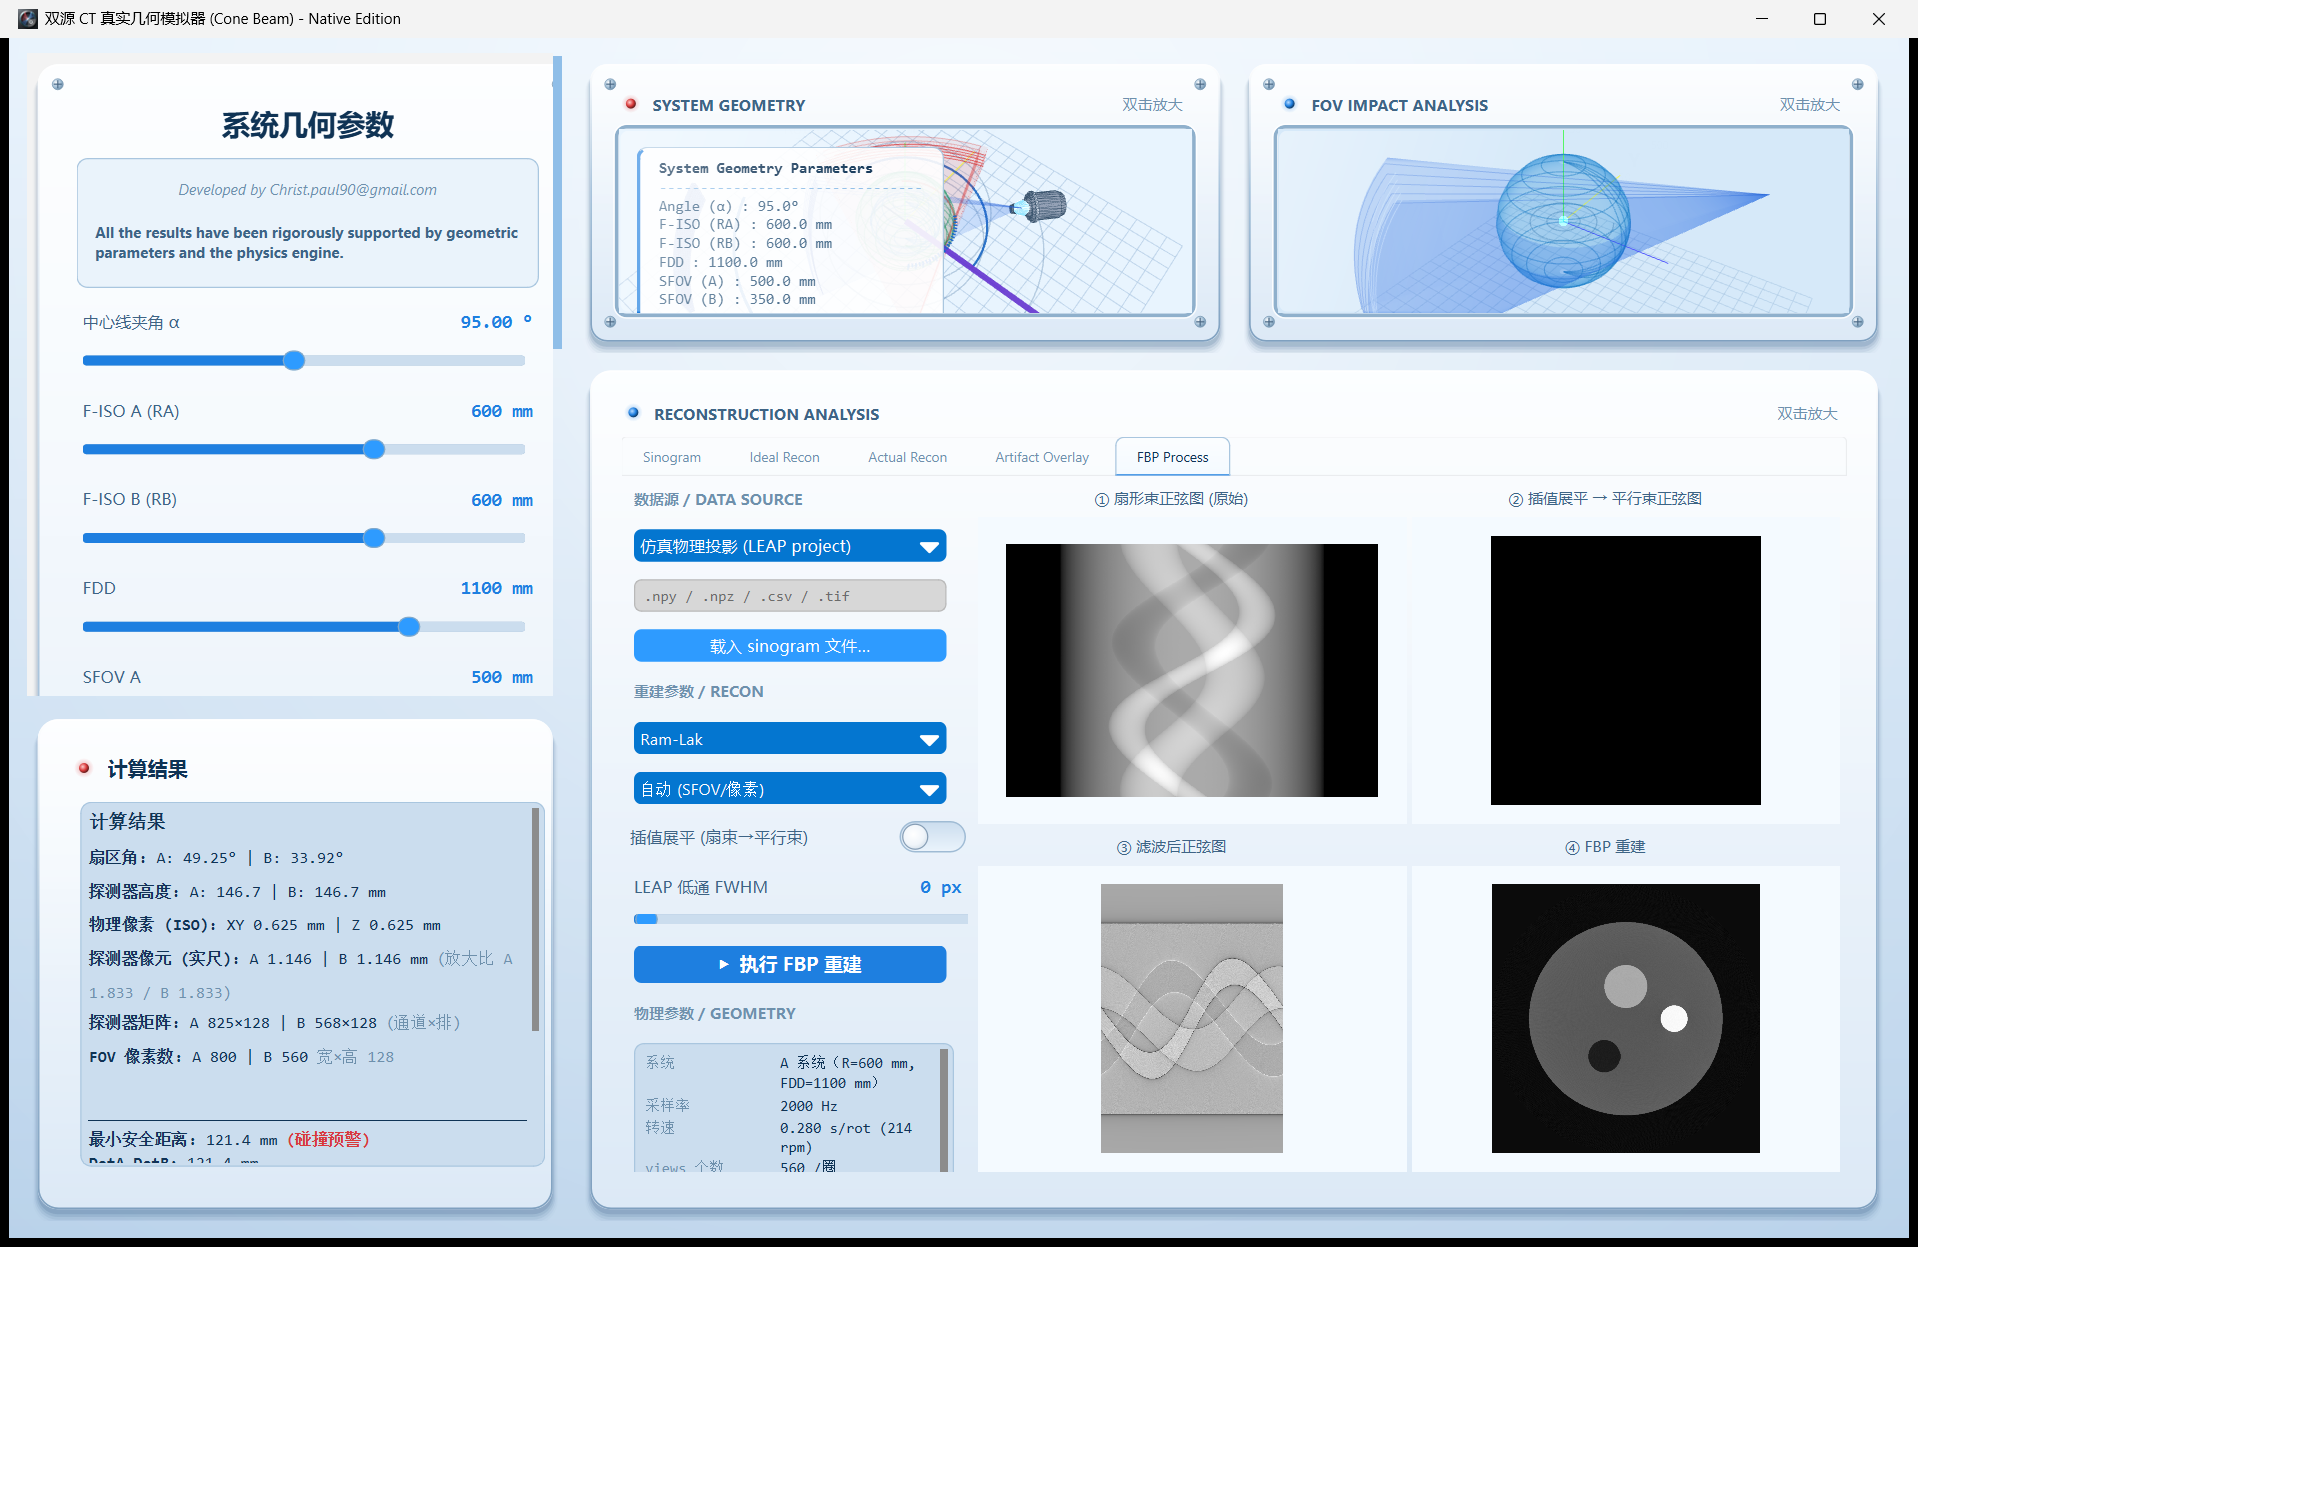
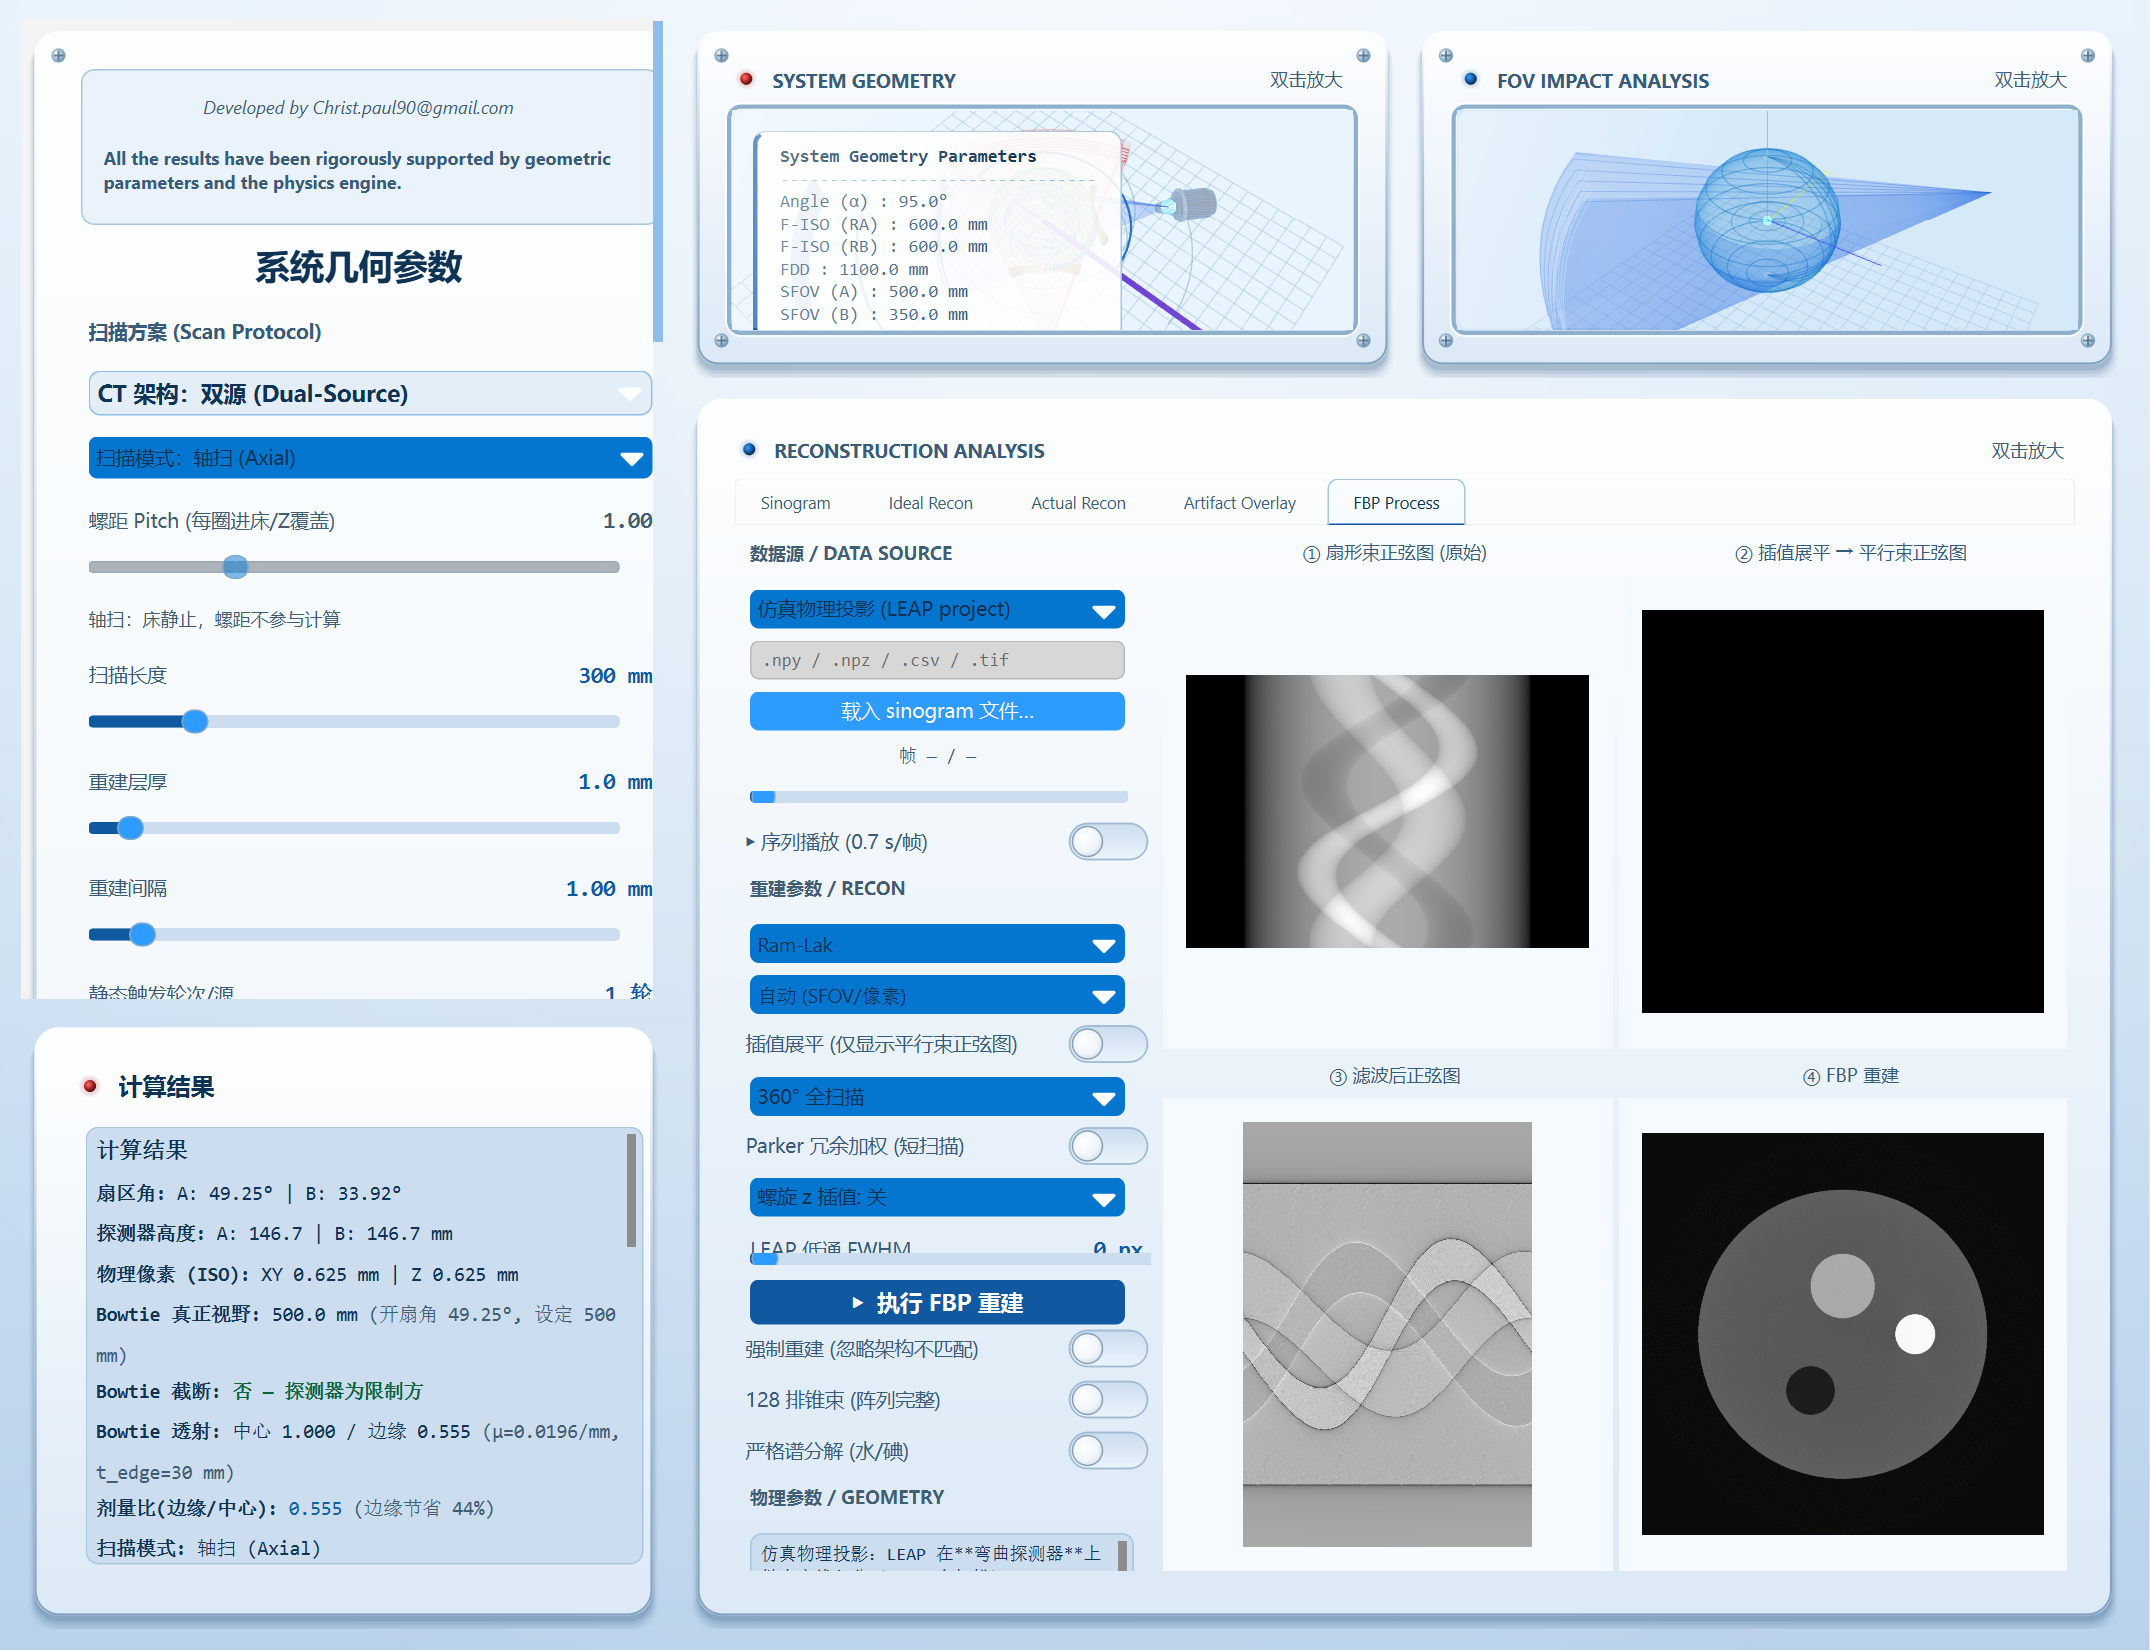
Docs: replace all README screenshots with current-build captures
The four images in docs/ were taken from an older build: the left column in them
only had the bare geometry sliders, with none of the groups the program has today
(Scan Protocol, 物理像素, 通道数自动匹配, Bowtie 滤过器, 非对称扇区) and none of the
Bowtie readouts in 计算结果.

Regenerated by driving the program itself rather than using an external screen
grabber: build the real MainWindow, switch architecture / tab as needed, and call
win.grab() -- the same rendering path the Agent control bridge's `shot` op uses.

- ct6_main.png        main window, dual-source, Sinogram tab
- ct6_fbp_process.png FBP Process tab after a real LEAP rebuild (4-panel chain)
- ct6_pcct_fermi.png  photon-counting (8-bin) architecture with the Fermi page
- ct6_static_multi.png stationary 24-source ring, visible in the 3D viewport

Dropped ct6_detail.png / ct6_pixel_iso.png / ct6_maximize_recon.png (stale shots).

diff --git a/README.md b/README.md
@@ -20,13 +20,21 @@
 
 ## 界面预览
 
-| 主界面（几何 / 重建 / 伪影） | FBP 重建流程 |
-| :---: | :---: |
-| ![detail](docs/ct6_detail.png) | ![fbp](docs/ct6_fbp_process.png) |
+> 以下截图均由**程序自身**渲染（构造真实 `MainWindow` 后调用 `win.grab()`，
+> 与 Agent 控制桥的 `shot` 能力同源），拍的是**当前版本**界面，不是早期 PyQt5 原型。
 
-| 像素 / 等中心对位 | 重建窗口最大化 |
+**主界面** —— 左栏「系统几何参数 / 扫描方案 / 计算结果」（含 Bowtie 真正视野与边缘剂量比），
+右栏 `System Geometry` 与 `FOV Impact Analysis` 双 3D 视口：
+
+![主界面](docs/ct6_main.png)
+
+| FBP 重建流程（LEAP 四联图） | 光子计数架构 · Fermi 探测器响应 |
 | :---: | :---: |
-| ![pixel](docs/ct6_pixel_iso.png) | ![max](docs/ct6_maximize_recon.png) |
+| ![FBP](docs/ct6_fbp_process.png) | ![Fermi](docs/ct6_pcct_fermi.png) |
+
+**静态多源 24 源环形阵列** —— 架构切到 `static_multi` 时，3D 视口中可见整圈源环：
+
+![静态多源](docs/ct6_static_multi.png)
 
 ---
 
